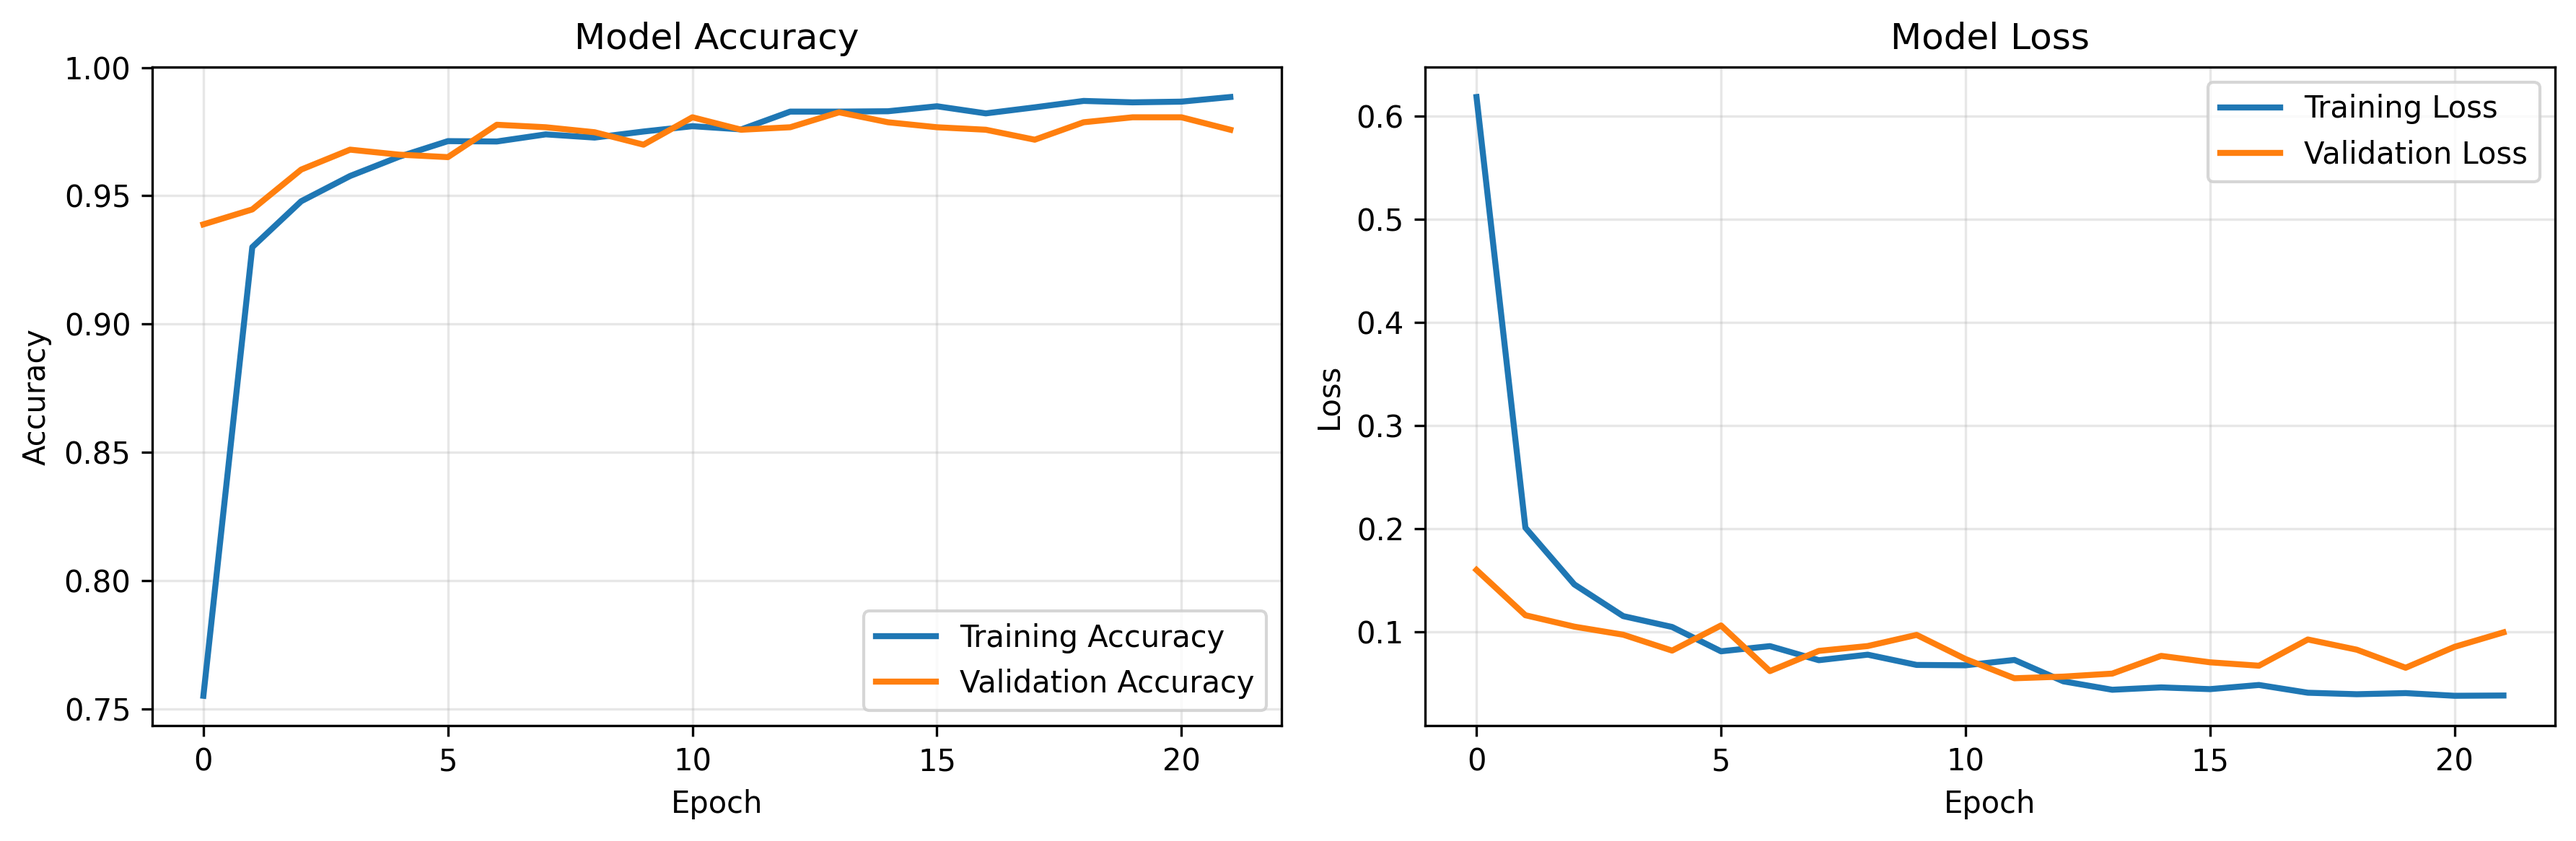
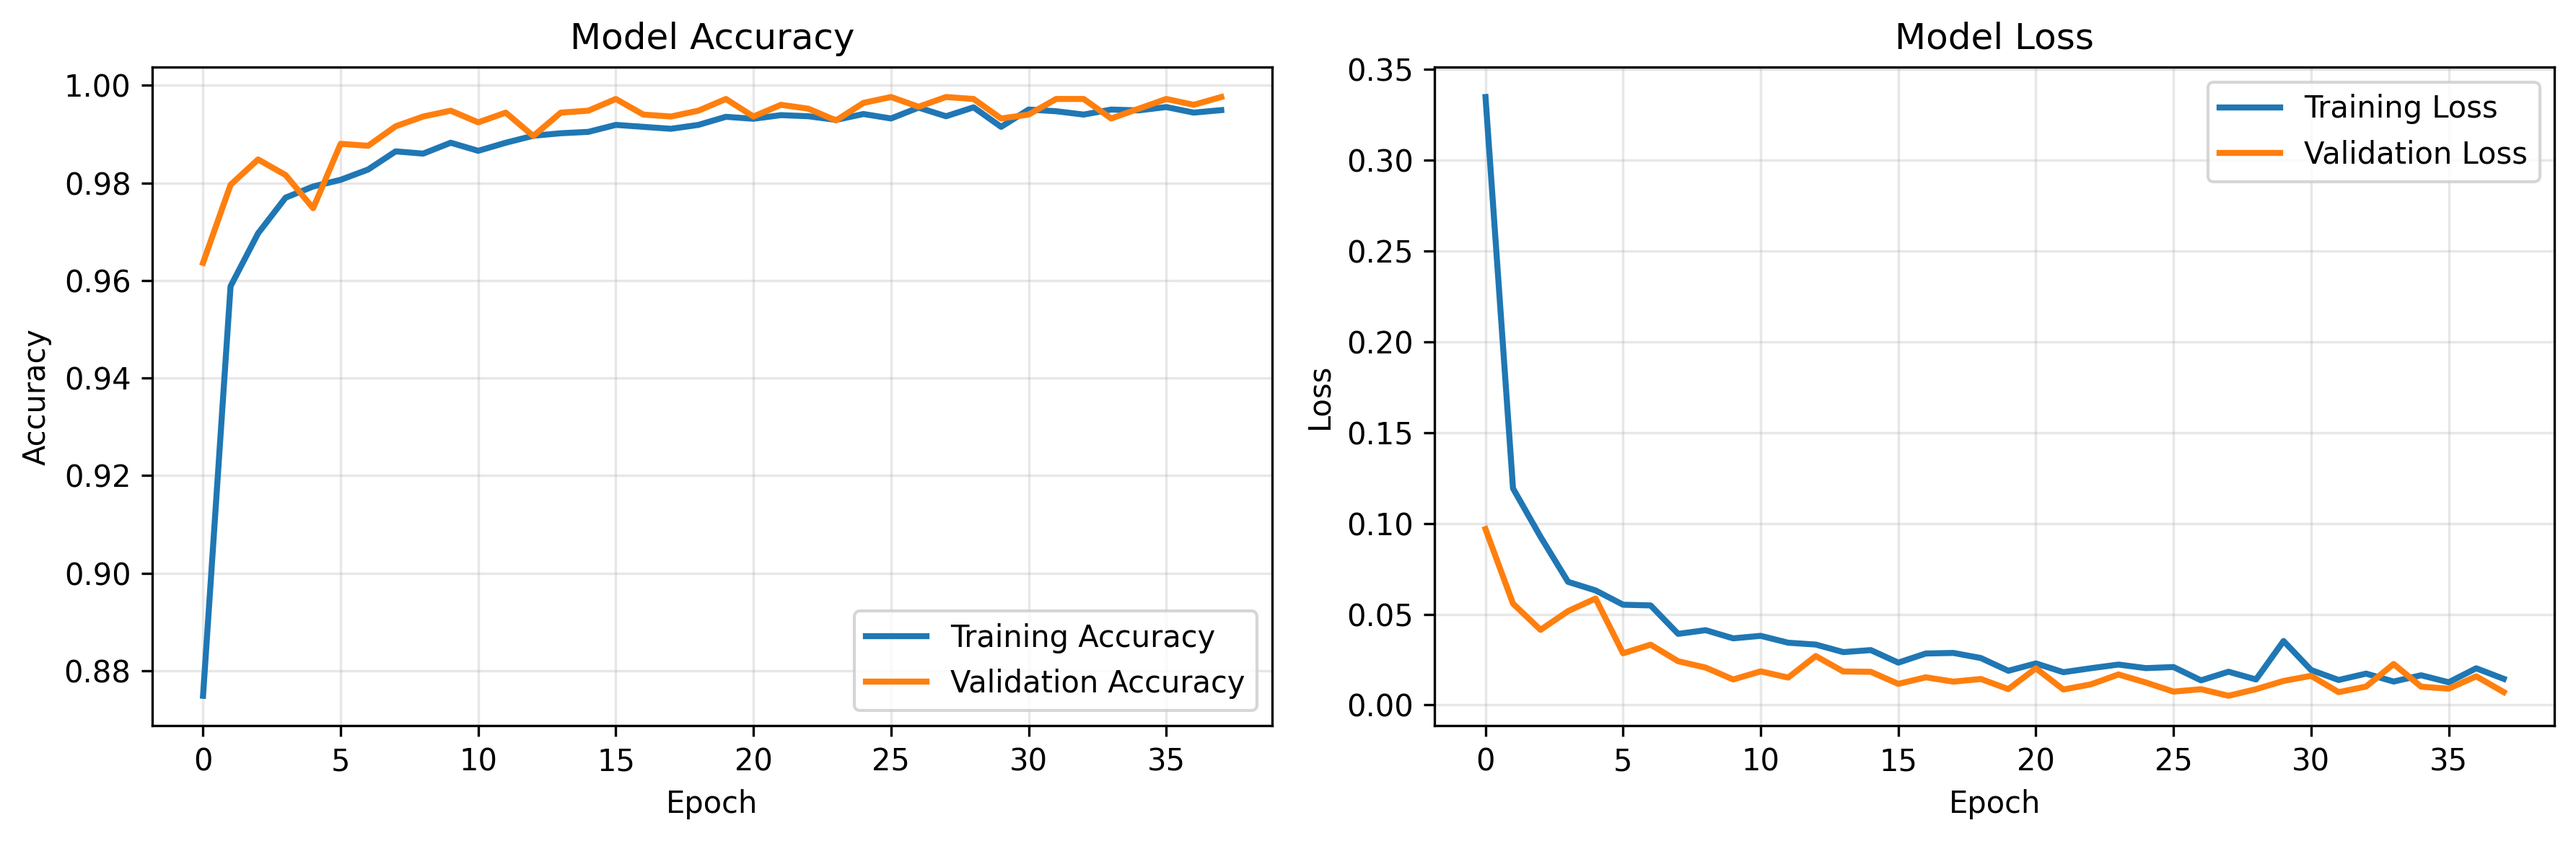
tambah augmentation

diff --git a/lstm.py b/lstm.py
@@ -12,11 +12,10 @@ from tensorflow.keras.optimizers import Adam
 from tensorflow.keras.callbacks import EarlyStopping
 import os
 
-print("🚀 MEMUAT DATA UCI HAR DATASET...")
+print("MEMUAT DATA UCI HAR DATASET...")
 
 # 1. LOAD DATA
 def load_har_data():
-    """Load dataset UCI HAR"""
     try:
         # Load training data
         X_train = pd.read_csv('UCI HAR Dataset/train/X_train.txt', delim_whitespace=True, header=None)
@@ -42,37 +41,59 @@ X_train, y_train, X_test, y_test, activity_labels = load_har_data()
 if X_train is None:
     exit()
 
-# 2. CEK DATA
+# 2. data checking
 print("\n📊 DATA EXPLORATION:")
 print(f"X_train shape: {X_train.shape}")
 print(f"y_train shape: {y_train.shape}")
 print(f"X_test shape: {X_test.shape}")
 print(f"y_test shape: {y_test.shape}")
 
-print("\n🎯 ACTIVITY LABELS:")
+print("\n ACTIVITY LABELS:")
 for i, label in activity_labels.iterrows():
     print(f"  {label[0]}: {label[1]}")
 
-print("\n📈 LABEL DISTRIBUTION:")
+print("\n LABEL DISTRIBUTION:")
 print("Training:")
 print(y_train[0].value_counts().sort_index())
 print("\nTesting:")
 print(y_test[0].value_counts().sort_index())
 
-# 3. PREPROCESSING
-print("\n🔧 PREPROCESSING DATA...")
+# 3. preprosesing data 
+print("\n PREPROCESSING DATA...")
 
 # Normalisasi
 scaler = StandardScaler()
 X_train_scaled = scaler.fit_transform(X_train)
 X_test_scaled = scaler.transform(X_test)
 
-# Reshape untuk LSTM (samples, timesteps, features)
-X_train_reshaped = X_train_scaled.reshape(X_train_scaled.shape[0], 1, X_train_scaled.shape[1])
+# augmentasi data 
+print("\n🧩 MENAMBAHKAN AUGMENTASI DATA...")
+# menambahkan noise
+def jitter(X, noise_level=0.01):
+    return X + np.random.normal(loc=0.0, scale=noise_level, size=X.shape)
+# mengubah skala
+def scaling(X, scale=0.1):
+    factor = np.random.normal(1.0, scale, (X.shape[0], 1))
+    return X * factor
+
+# Buat versi augmentasi dari data training
+X_train_jitter = jitter(X_train_scaled)
+X_train_scaling = scaling(X_train_scaled)
+
+# Gabungkan data asli + augmentasi
+X_train_aug = np.vstack([X_train_scaled, X_train_jitter, X_train_scaling])
+y_train_aug = np.hstack([y_train[0], y_train[0], y_train[0]])
+
+print(f"✅ Data augmented: dari {X_train_scaled.shape[0]} jadi {X_train_aug.shape[0]} sampel")
+
+# Reshape untuk LSTM
+# yang aug itu untuk data training, untuk data testing tetap normal
+X_train_reshaped = X_train_aug.reshape(X_train_aug.shape[0], 1, X_train_aug.shape[1])
 X_test_reshaped = X_test_scaled.reshape(X_test_scaled.shape[0], 1, X_test_scaled.shape[1])
 
+
 # Encode labels (1-6 menjadi 0-5)
-y_train_encoded = y_train[0] - 1
+y_train_encoded = y_train_aug - 1
 y_test_encoded = y_test[0] - 1
 
 print(f"✅ Data reshaped: {X_train_reshaped.shape}")
@@ -94,14 +115,14 @@ X_test_final, X_val_final, y_test_final, y_val_final = train_test_split(
     X_temp, y_temp, test_size=1/3, random_state=42, stratify=y_temp
 )
 
-print("✅ FINAL DATA SPLIT:")
+print(" FINAL DATA SPLIT:")
 total_samples = len(X_all)
 print(f"Training: {len(X_train_final)} samples ({len(X_train_final)/total_samples*100:.1f}%)")
 print(f"Validation: {len(X_val_final)} samples ({len(X_val_final)/total_samples*100:.1f}%)")
 print(f"Testing: {len(X_test_final)} samples ({len(X_test_final)/total_samples*100:.1f}%)")
 
 # 5. BUILD LSTM MODEL
-print("\n🧠 BUILDING LSTM MODEL...")
+print("\n BUILDING LSTM MODEL...")
 
 model = Sequential([
     LSTM(128, input_shape=(X_train_final.shape[1], X_train_final.shape[2]), 
@@ -120,11 +141,11 @@ model.compile(
     metrics=['accuracy']
 )
 
-print("✅ Model compiled!")
+print(" Model compiled!")
 model.summary()
 
 # 6. TRAINING
-print("\n🎯 TRAINING MODEL...")
+print("\nTRAINING MODEL...")
 
 early_stop = EarlyStopping(monitor='val_loss', patience=10, restore_best_weights=True)
 
